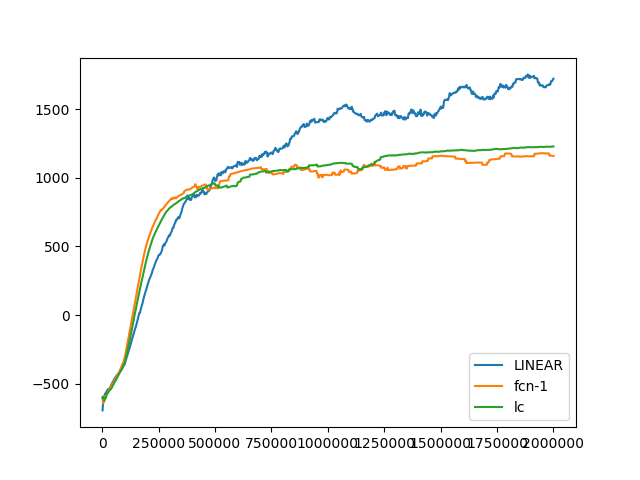
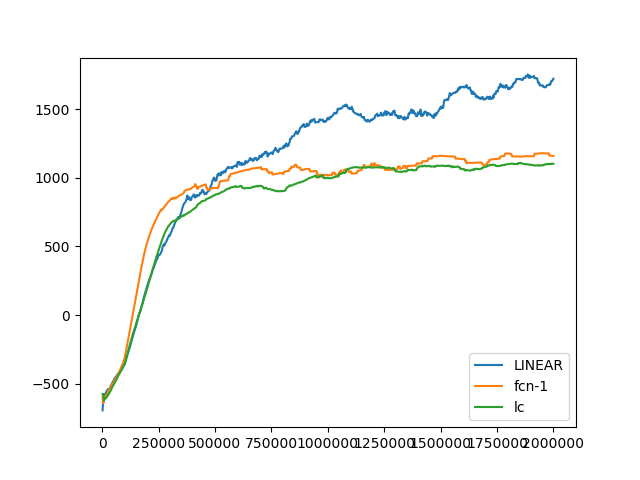
.

Changed region(s): [[0.1875, 0.2812, 0.875, 0.75], [0.1562, 0.7812, 0.1875, 0.8438]]

diff --git a/baselines/ppoc/pposgd_simple.py b/baselines/ppoc/pposgd_simple.py
@@ -118,6 +118,15 @@ def learn(env, policy_fn, *,
     loss_names = ["pol_surr", "pol_entpen", "vf_loss", "kl", "ent"]
 
     var_list = pi.get_trainable_variables()
+
+    for tv in var_list:
+        print(tv)
+
+    var_list = var_list[:6]+var_list[10:]
+
+    for tv in var_list:
+        print(tv)
+
     lossandgrad = U.function([ob, ac, atarg, ret, lrmult], losses + [U.flatgrad(total_loss, var_list)])
     adam = MpiAdam(var_list, epsilon=adam_epsilon)
 
